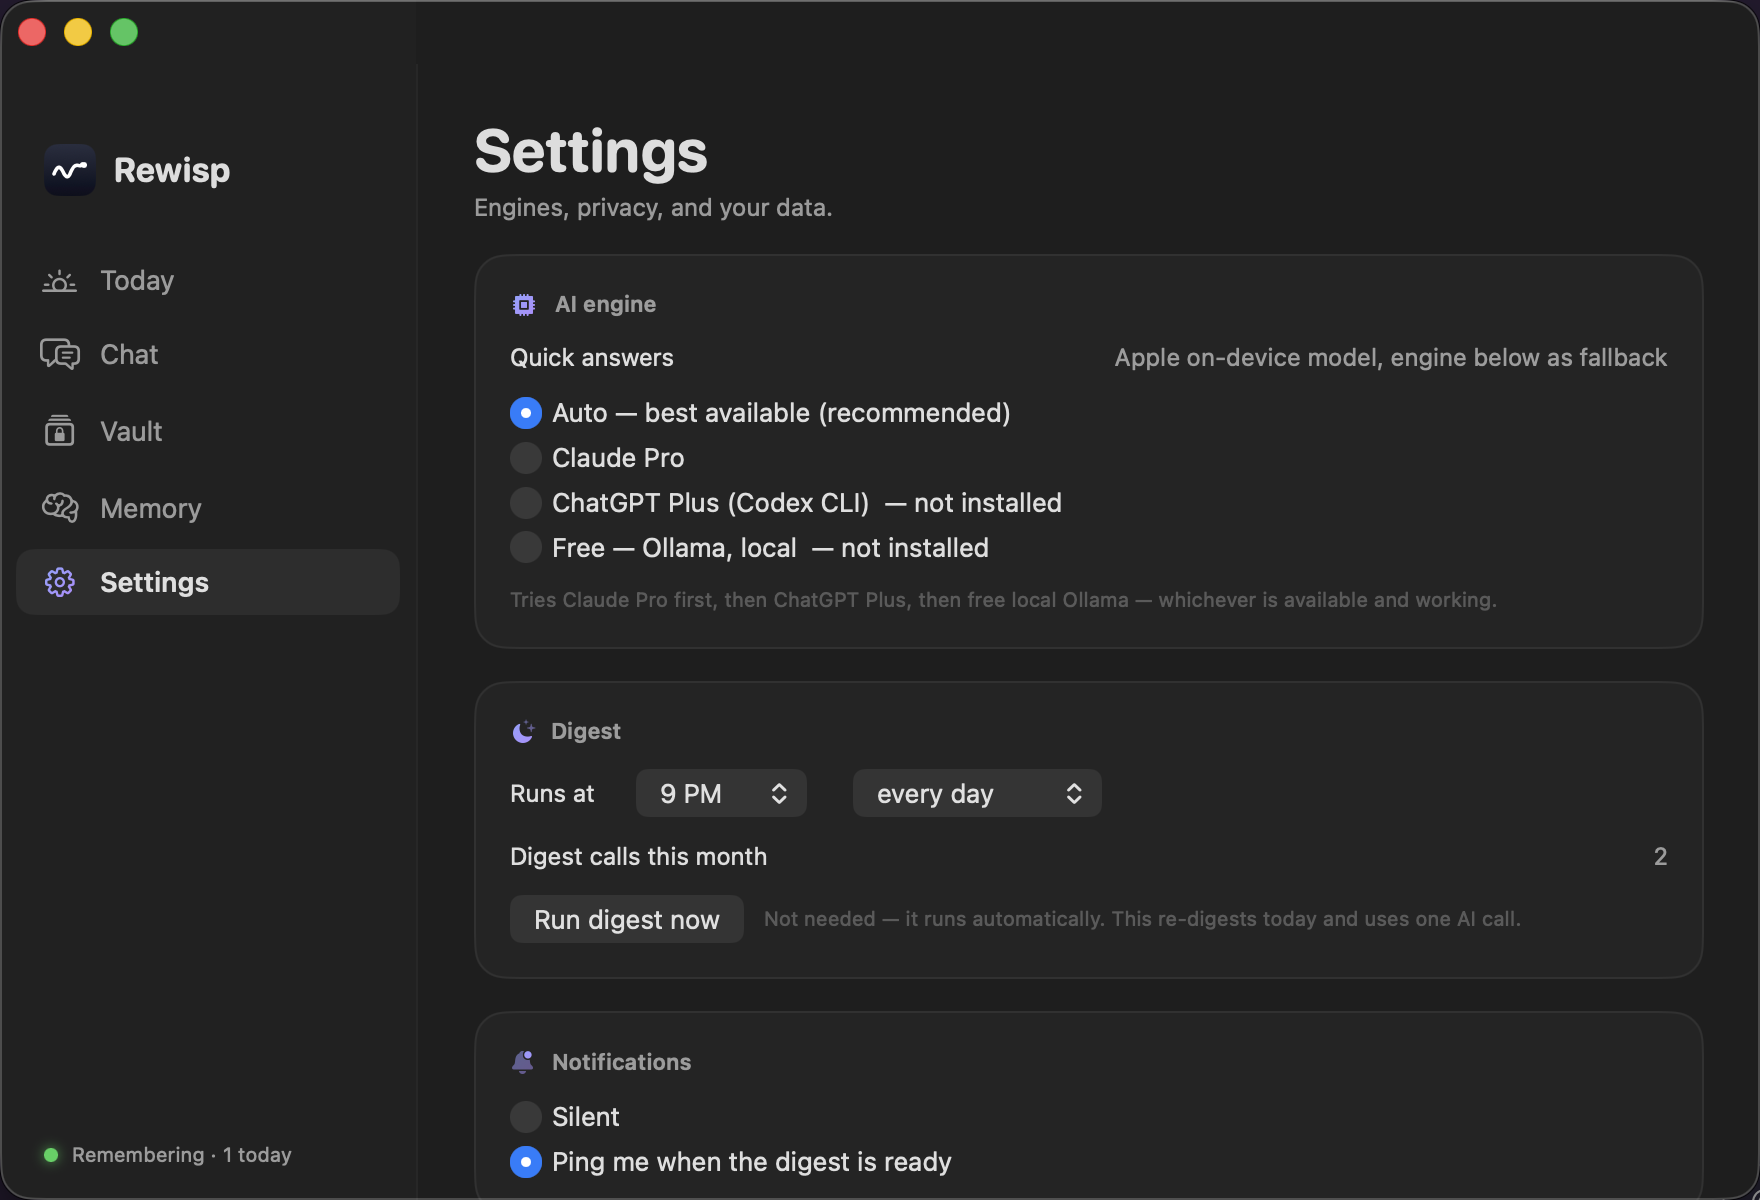
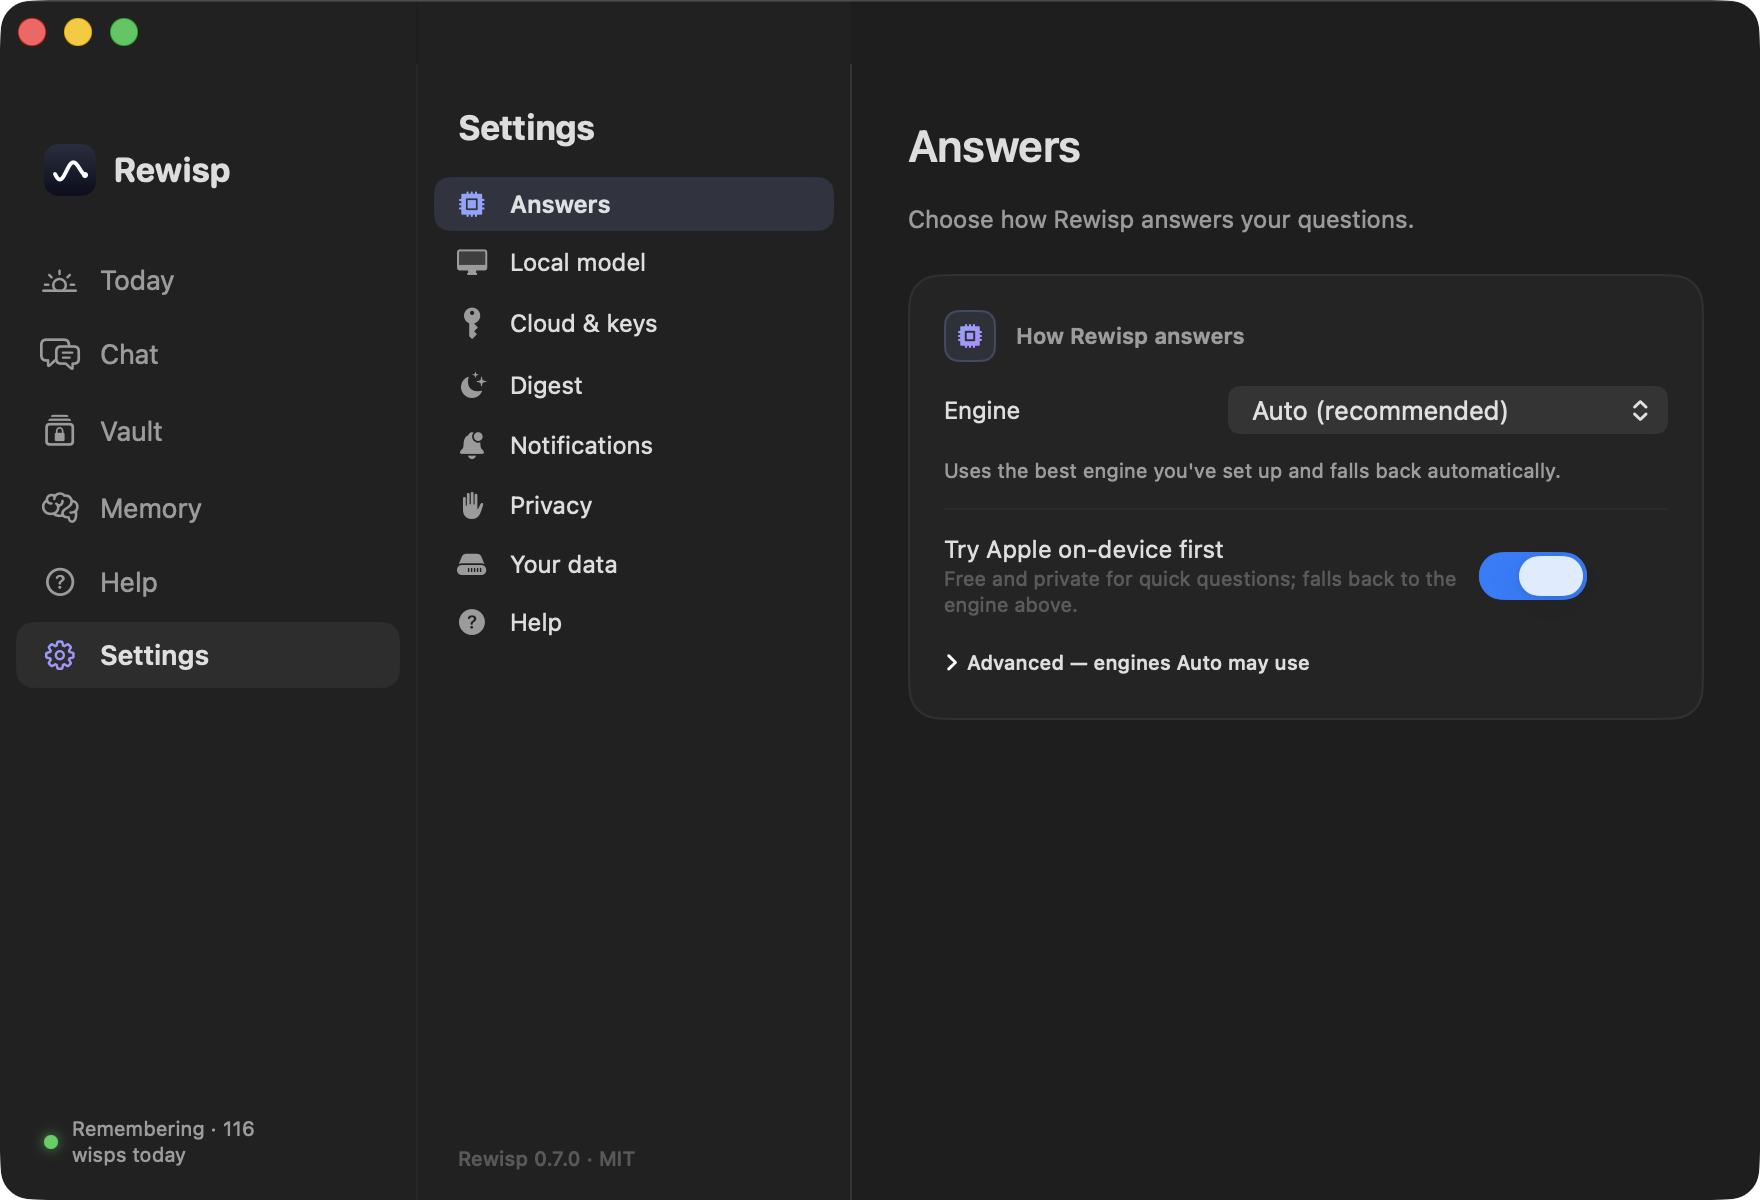
site: fresh screenshots + fix time/digest demo empty-frame
- Recapture panel.png (v0.7 search answer) and settings.png (redesigned
  sectioned Settings) from the live app.
- Time-tracking + digest demos now play once on scroll-in and stay filled,
  instead of looping through a reset-to-empty window a screenshot could land
  in. Widen time labels so '3h 10m' stops wrapping.
- Hero caption matches what the shot shows.

diff --git a/site/js/demos.js b/site/js/demos.js
@@ -121,14 +121,11 @@ function whenVisible(el, fn, { once = false } = {}) {
   const el = $("#digest-demo");
   if (!el) return;
   const lines = $$("#digest-demo .dline");
+  // Assemble once on scroll-in and stay assembled — no empty window to catch.
   async function play() {
-    lines.forEach(l => l.classList.remove("in"));
-    await sleep(500);
     for (const l of lines) { l.classList.add("in"); await sleep(520); }
-    await sleep(3400);
-    play();
   }
-  whenVisible(el, play);
+  whenVisible(el, play, { once: true });
 })();
 
 /* ── time tracking demo ── */
@@ -136,14 +133,11 @@ function whenVisible(el, fn, { once = false } = {}) {
   const el = $("#time-demo");
   if (!el) return;
   const fills = $$("#time-demo .fill");
-  async function play() {
-    fills.forEach(f => f.style.width = "0");
-    await sleep(400);
-    fills.forEach(f => f.style.width = f.dataset.w);
-    await sleep(5000);
-    play();
-  }
-  whenVisible(el, play);
+  // Fill once when it scrolls in and leave the bars full. The CSS width starts
+  // at 0, so just setting the target animates 0 -> target via the transition —
+  // no reset-to-empty window for a screenshot to land in.
+  function play() { fills.forEach(f => f.style.width = f.dataset.w); }
+  whenVisible(el, play, { once: true });
 })();
 
 /* ── capture / wisp flow ── */

diff --git a/site/css/styles.css b/site/css/styles.css
@@ -178,7 +178,7 @@ h2 { font-size: clamp(28px, 4vw, 42px); font-weight: 700; letter-spacing: -.02em
 .trow .tn { width: 92px; color: var(--muted); flex-shrink: 0; }
 .trow .track { flex: 1; height: 10px; border-radius: 999px; background: rgba(255, 255, 255, .05); overflow: hidden; }
 .trow .fill { height: 100%; width: 0; border-radius: 999px; background: linear-gradient(90deg, var(--accent), var(--accent-2)); transition: width 1.1s var(--ease); }
-.trow .tm { width: 46px; text-align: right; color: var(--dim); font-variant-numeric: tabular-nums; }
+.trow .tm { width: 58px; text-align: right; color: var(--dim); font-variant-numeric: tabular-nums; white-space: nowrap; }
 
 /* product shots */
 .shots { margin-top: 56px; display: flex; flex-direction: column; gap: 72px; }

diff --git a/site/index.html b/site/index.html
@@ -129,7 +129,7 @@
         <div class="frame">
           <img src="assets/panel.png" alt="Search panel answering a question from screen history, on-device" loading="lazy">
         </div>
-        <p class="cap"><b>Hit ⌘⇧Space, ask anything.</b> Answered in seconds — with the source and the time you saw it.</p>
+        <p class="cap"><b>Hit ⌘⇧Space, ask anything.</b> Answered on-device in seconds, in plain English — synthesized from everything you saw.</p>
       </div>
       <div class="shot app reveal">
         <div class="frame">